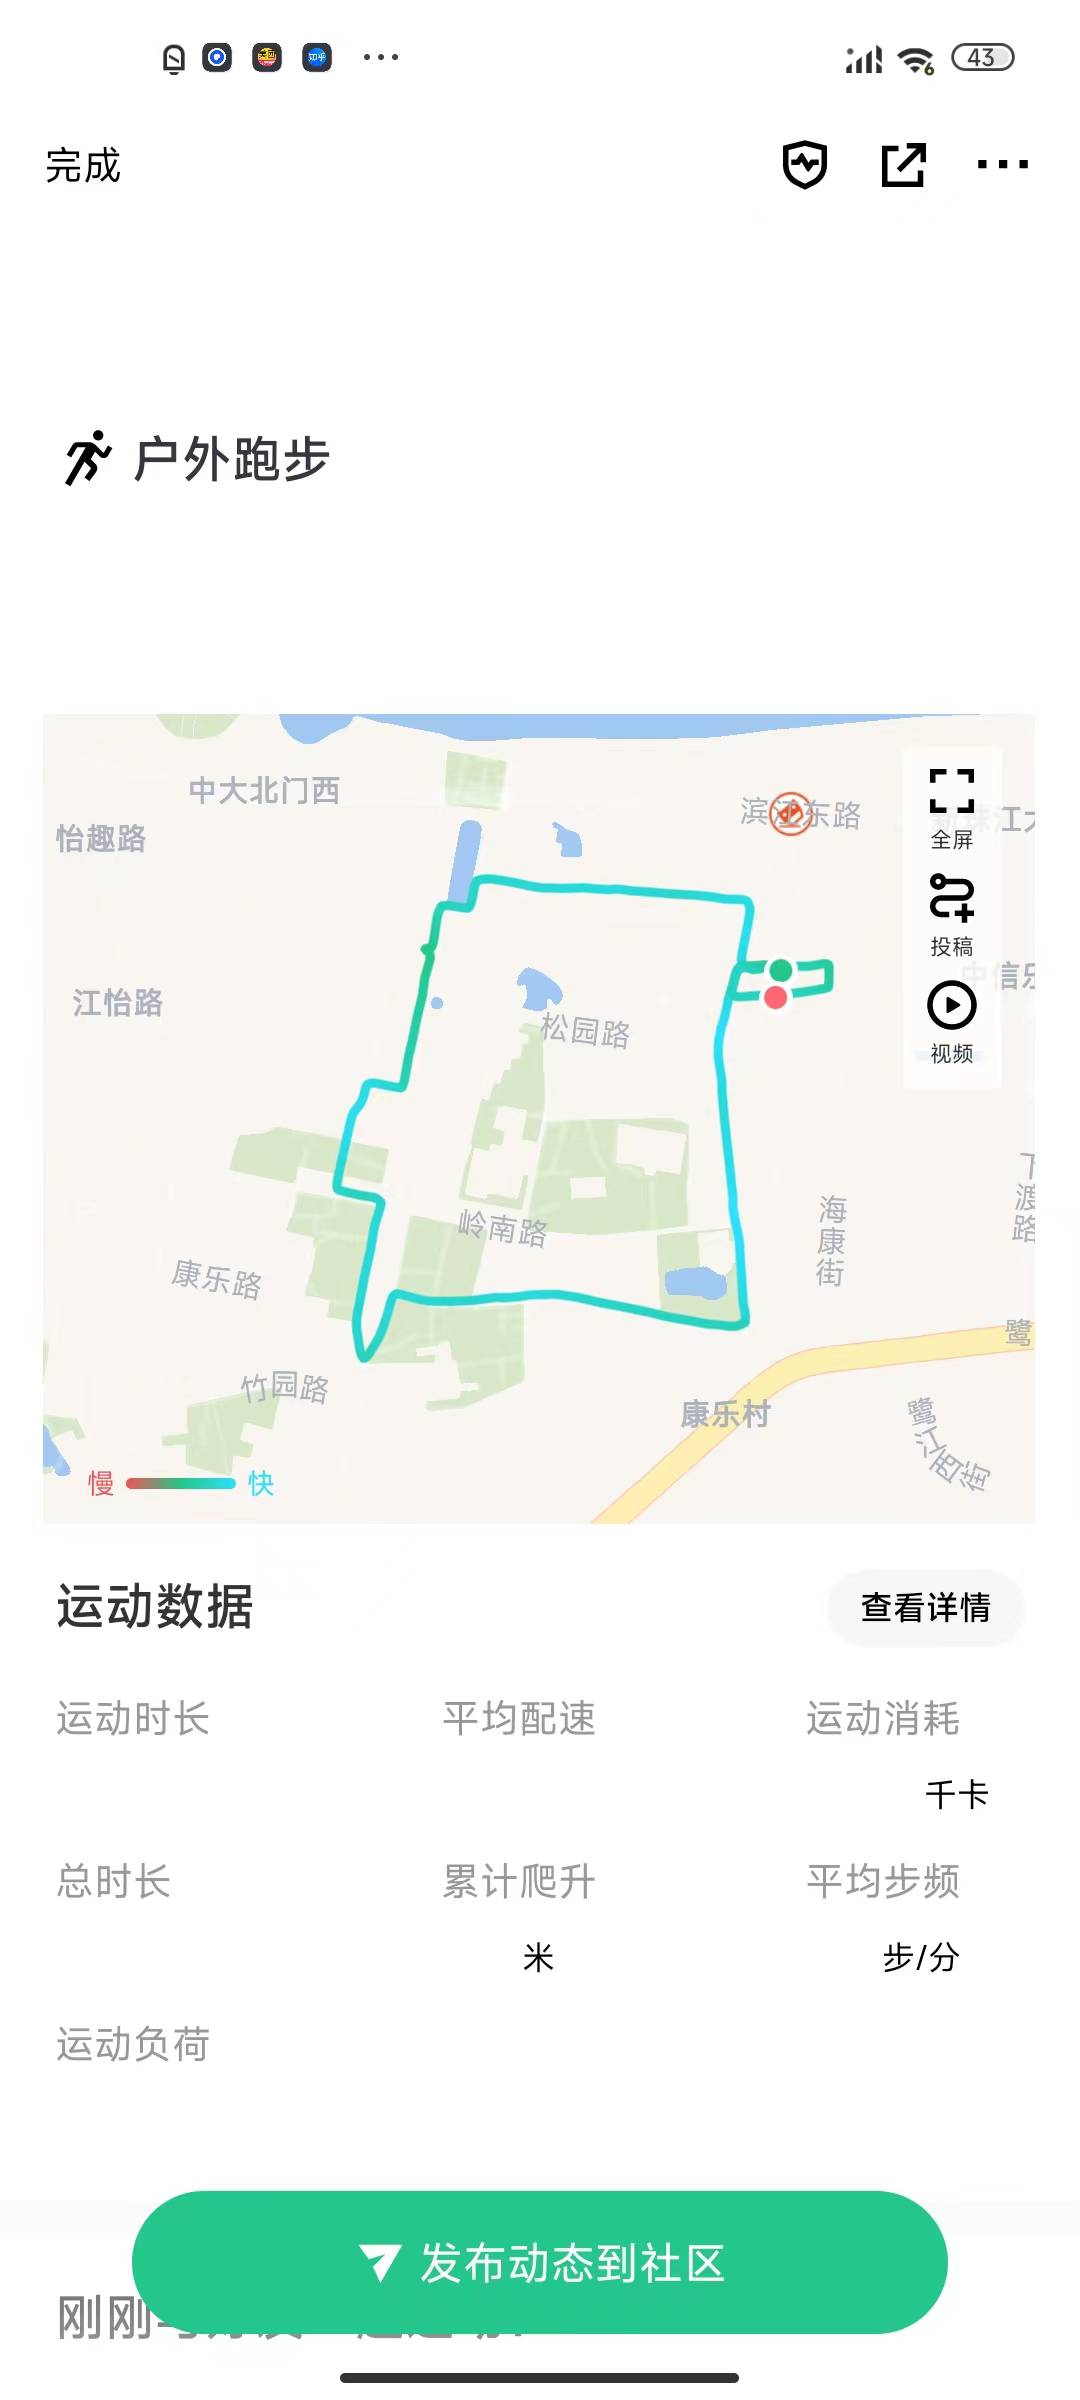
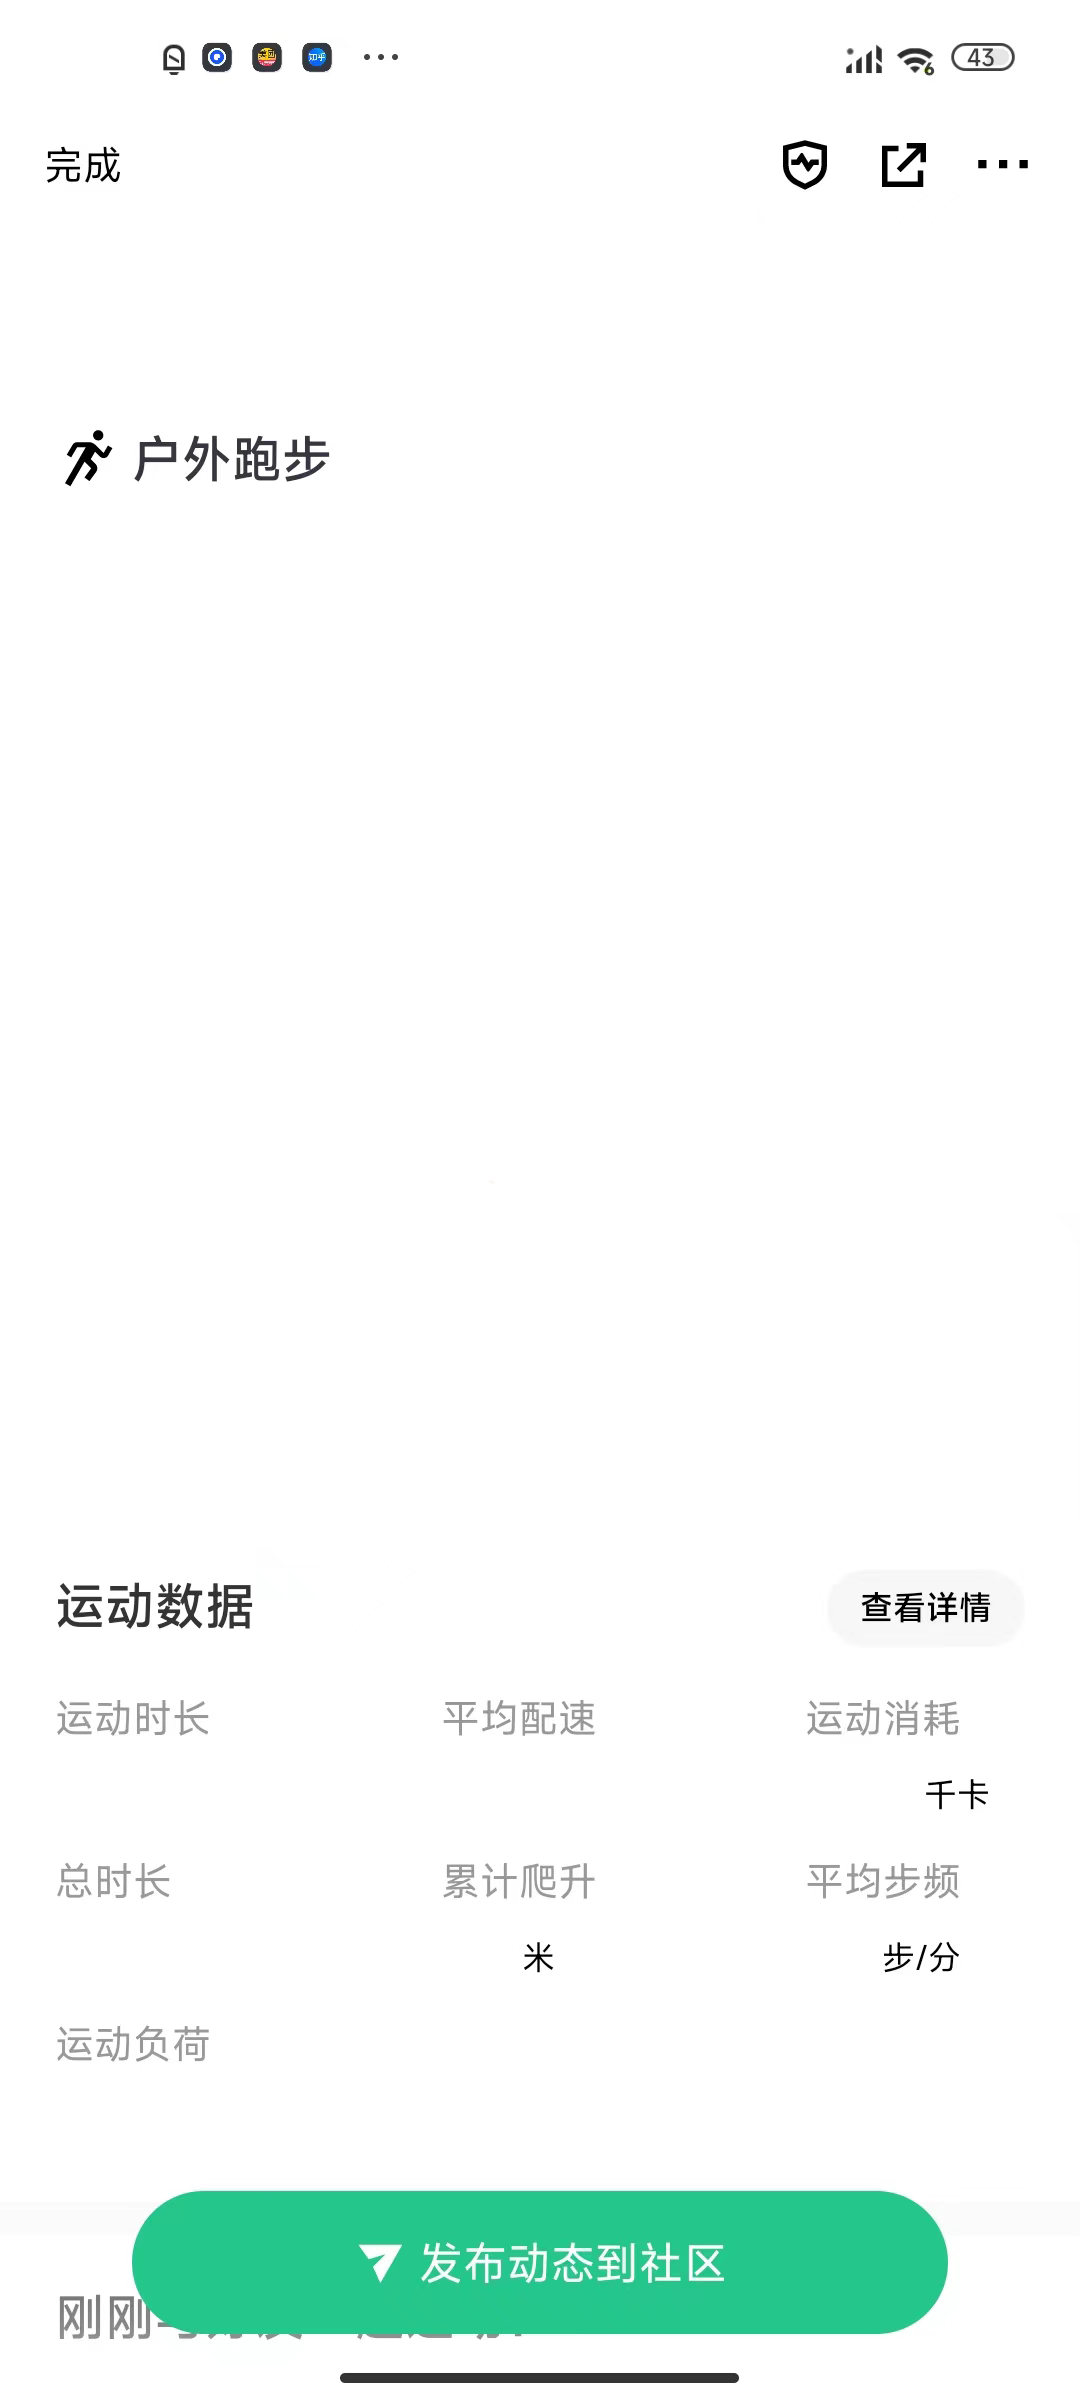
add map customized

diff --git a/KeepSultan.py b/KeepSultan.py
@@ -182,6 +182,8 @@ class KeepSultan:
     def __init__(self):
         self.image_editor = ImageEditor()
         self.configs = {
+            "template": "scr/template.png", 
+            "map": "scr/map.png",
             "avatar": "",
             "username": "",
 
@@ -201,6 +203,10 @@ class KeepSultan:
             self.configs = json.load(f)
 
     def load_args(self, args:argparse.Namespace):
+        if args.template:
+            k.configs["template"] = args.template
+        if args.map:
+            k.configs["map"] = args.map
         if args.avatar:
             k.configs["avatar"] = args.avatar
         if args.username:
@@ -257,11 +263,17 @@ class KeepSultan:
             result = Image.composite(img, Image.new('RGBA', avatar_size, (0, 0, 0, 0)), mask)     
             
             return result
+        
+    def create_map(self, map_path, map_size):
+        with Image.open(map_path).convert('RGBA') as img:
+            img = img.resize(map_size)
+            return img
     
     def process(self):
-        self.load_template("scr/template.png")
+        self.load_template(self.configs["template"])
         
-        avatar = self.create_circular_avatar(self.configs["avatar"], (100, 100))
+        avatar_img = self.create_circular_avatar(self.configs["avatar"], (100, 100))
+        map_img = self.create_map(self.configs["map"], (1000, 800))
 
         end_time = self.configs["end_time"]
         total_time = random_time_in_range(str(self.configs["total_time"][0]), str(self.configs["total_time"][1]))
@@ -278,15 +290,18 @@ class KeepSultan:
 
         self.image_editor.add_text(end_time, (50, 25), "fonts/SourceHanSansCN-Regular.otf", 40, (0, 0, 0)) #系统时间
 
-        self.image_editor.add_image(avatar, (40, 250)) #头像
+        self.image_editor.add_image(avatar_img, (40, 250)) #头像
+
         self.image_editor.add_text(self.configs["username"], (160, 240), "fonts/SourceHanSansCN-Regular.otf", 40, (0, 0, 0)) #用户名
         self.image_editor.add_text(f'{self.configs["date"]} {start_time[:-3]} - {end_time}', (160, 290), "fonts/SourceHanSansCN-Regular.otf", 36, (155, 155, 155)) #日期
 
         self.image_editor.add_text(str(total_km), (50, 485), "fonts/QanelasBlack.otf", 180, (0, 0, 0)) #公里数
         self.image_editor.add_text('公里', (418, 610), "fonts/SourceHanSansCN-Regular.otf", 43, (0, 0, 0))
 
+        self.image_editor.add_image(map_img, (40, 720)) #地图
+
         self.image_editor.add_text(str(sport_time), (55, 1750), "fonts/QanelasSemiBold.otf", 65, (0, 0, 0)) #运动时长
-        self.image_editor.add_text(pace, (445, 1750), "fonts/QanelasSemiBold.otf", 65, (0, 0, 0)) #平均配速
+        self.image_editor.add_text(str(pace), (445, 1750), "fonts/QanelasSemiBold.otf", 65, (0, 0, 0)) #平均配速
         self.image_editor.add_text(str(cost), (800, 1750), "fonts/QanelasSemiBold.otf", 65, (0, 0, 0)) #运动消耗
 
         self.image_editor.add_text(str(total_time), (55, 1910), "fonts/QanelasSemiBold.otf", 65, (0, 0, 0)) #总时长
@@ -297,6 +312,8 @@ class KeepSultan:
 def parse_args():
     parser = argparse.ArgumentParser(description="Sultan of Keep")
     parser.add_argument("--config_path", type=str, default="config.json", help="Path of config file. Default `config.json`")
+    parser.add_argument("--template", type=str, default="scr/template.png", help="Path of template image. Default `scr/template.png`")
+    parser.add_argument("--map", type=str, default="scr/map.png", help="Path of map image. Default `scr/map.png`")
     parser.add_argument("--save_path", type=str, default="save.png", help="Path of saved image. Default `save.png`")
 
     parser.add_argument("--avatar", type=str, default=None, help="Path of avatar image. Default None")
@@ -314,8 +331,10 @@ def parse_args():
 if __name__ == "__main__":
     args = parse_args()
     k = KeepSultan()
-    k.load_configs(args.config_path)
-    k.load_args(args)
+    if args.config_path:
+        k.load_configs(args.config_path)
+    else:
+        k.load_args(args)
     k.process()
     k.save(args.save_path)
 
